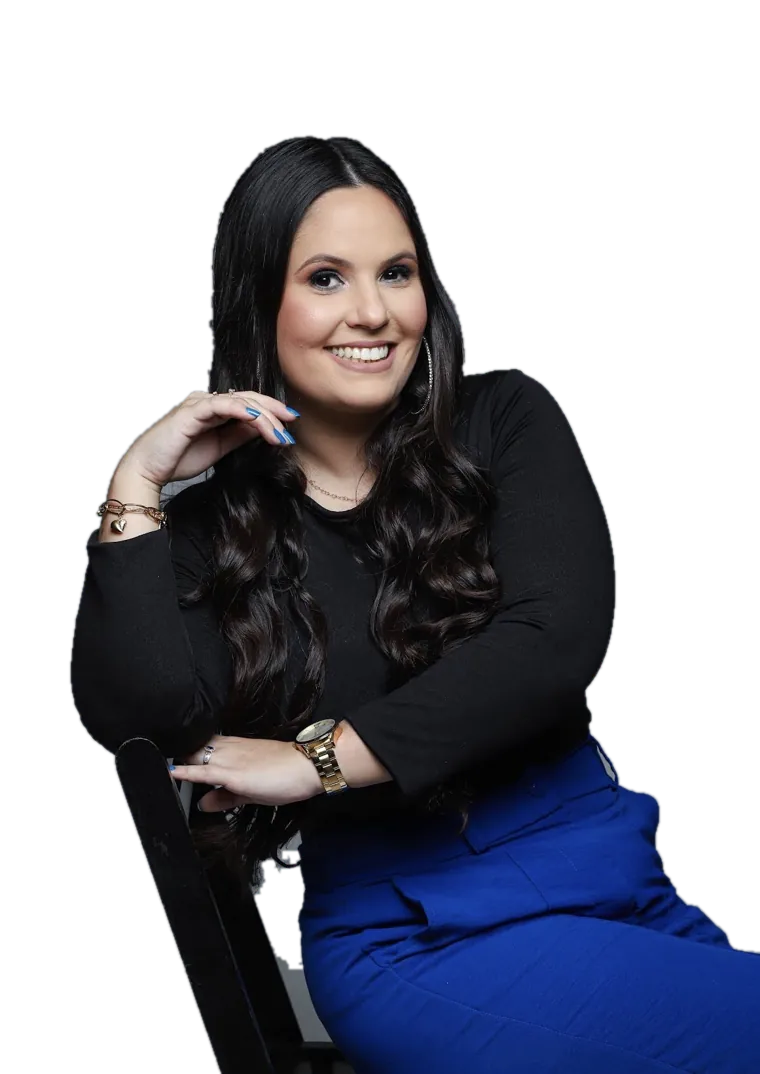
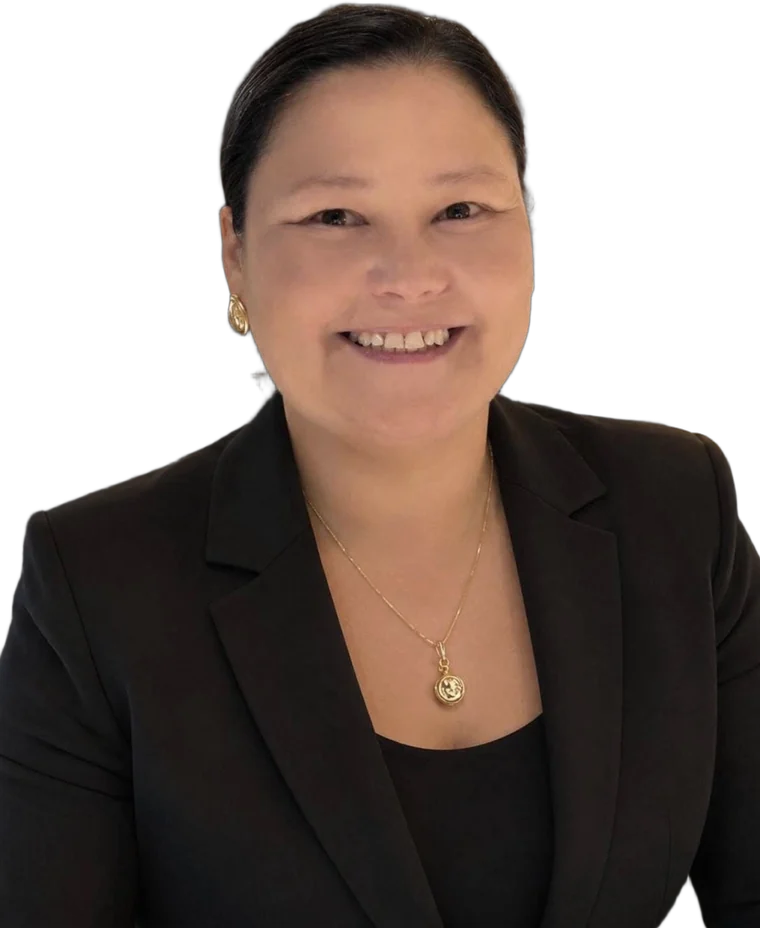
Troca as fotos do topo e do "sobre" pelas da Carla
Foto do topo com fundo removido e bordas esfumadas; corrige "na Vale do Sol" para "no Vale do Sol".

Claude-Session: https://claude.ai/code/session_013aJzSuekUFWv72ysnskdBA

diff --git a/index.html b/index.html
@@ -233,7 +233,7 @@
   .nome{position:absolute;z-index:1;font-weight:900;line-height:.82;letter-spacing:-.045em;font-size:clamp(6rem,15vw,13.5rem);white-space:nowrap;pointer-events:none;user-select:none}
   .nome-1{position:relative;margin:0 0 14px -.04em;align-self:flex-start;color:var(--azul-escuro);animation:entraEsq 1.1s cubic-bezier(.2,.8,.2,1) both}
   .nome-2{right:-.03em;bottom:5%;z-index:3;background:linear-gradient(100deg,var(--dourado-texto) 10%,var(--dourado) 60%,#E3C27A);-webkit-background-clip:text;background-clip:text;color:transparent;animation:entraDir 1.1s cubic-bezier(.2,.8,.2,1) .15s both}
-  .hero-foto{position:absolute;z-index:2;bottom:0;left:50%;height:94%;width:auto;max-width:none;transform:translateX(-40%);filter:drop-shadow(0 30px 40px rgba(14,42,71,.18));-webkit-mask-image:linear-gradient(to left,transparent 0,black 16%);mask-image:linear-gradient(to left,transparent 0,black 16%);animation:sobe 1.3s cubic-bezier(.2,.8,.2,1) .25s both}
+  .hero-foto{position:absolute;z-index:2;bottom:0;left:50%;height:90%;width:auto;max-width:none;transform:translateX(-18%);filter:drop-shadow(0 30px 40px rgba(14,42,71,.18));-webkit-mask-image:linear-gradient(to right,transparent 0,black 14%,black 84%,transparent 100%);mask-image:linear-gradient(to right,transparent 0,black 14%,black 84%,transparent 100%);animation:sobe 1.3s cubic-bezier(.2,.8,.2,1) .25s both}
   .hero-texto{position:relative;z-index:4;max-width:510px}
   .hero-texto h1{max-width:420px}
   .hero-texto .lead{max-width:420px}
@@ -259,7 +259,7 @@
   .hero-info svg{width:17px;height:17px;color:var(--dourado-texto);flex-shrink:0}
   @keyframes entraEsq{from{opacity:0;transform:translateX(-60px)}to{opacity:1;transform:none}}
   @keyframes entraDir{from{opacity:0;transform:translateX(60px)}to{opacity:1;transform:none}}
-  @keyframes sobe{from{opacity:0;transform:translateX(-40%) translateY(60px)}to{opacity:1;transform:translateX(-40%)}}
+  @keyframes sobe{from{opacity:0;transform:translateX(-18%) translateY(60px)}to{opacity:1;transform:translateX(-18%)}}
 
   .rod-info li{display:flex;gap:10px}
   .rod-info svg{width:18px;height:18px;flex-shrink:0;color:var(--dourado);margin-top:3px}
@@ -450,7 +450,7 @@
     .nome{position:relative;font-size:clamp(4.6rem,20vw,9rem)}
     .nome-1{margin:0 0 0 -.04em}
     .nome-2{right:auto;bottom:auto;align-self:flex-end;margin-top:-.5em;z-index:3;order:2}
-    .hero-foto{position:relative;left:auto;transform:none;height:auto;width:min(86%,430px);align-self:center;margin-top:-2.7em;order:1;animation-name:sobeM;-webkit-mask-image:linear-gradient(to left,transparent 0,black 16%),linear-gradient(to top,transparent 0,black 18%);-webkit-mask-composite:source-in;mask-image:linear-gradient(to left,transparent 0,black 16%),linear-gradient(to top,transparent 0,black 18%);mask-composite:intersect}
+    .hero-foto{position:relative;left:auto;transform:none;height:auto;width:min(86%,430px);align-self:center;margin-top:-.9em;order:1;animation-name:sobeM;-webkit-mask-image:linear-gradient(to right,transparent 0,black 14%,black 84%,transparent 100%),linear-gradient(to top,transparent 0,black 18%);-webkit-mask-composite:source-in;mask-image:linear-gradient(to right,transparent 0,black 14%,black 84%,transparent 100%),linear-gradient(to top,transparent 0,black 18%);mask-composite:intersect}
     .nome-1{order:0}
       .hero-texto{position:relative;left:auto;bottom:auto;max-width:520px;order:3;padding:36px 0 64px}
     .hero h1{font-size:clamp(1.7rem,6vw,2.2rem)}
@@ -555,7 +555,7 @@
   <div class="container hero-palco">
     <span class="nome nome-1" aria-hidden="true">Carla</span>
     <span class="nome nome-2" aria-hidden="true">Peres</span>
-    <img class="hero-foto" src="assets/hero.webp" alt="Psicóloga Carla Peres sorrindo, sentada em uma cadeira" width="760" height="1074" fetchpriority="high">
+    <img class="hero-foto" src="assets/hero.webp" alt="Psicóloga Carla Peres sorrindo, de blazer preto" width="760" height="928" fetchpriority="high">
     <div class="hero-texto">
       <h1>Coloque a cabeça no lugar e volte a decidir sua vida <em>com clareza</em>.</h1>
       <p class="lead">Sou a Carla, psicóloga aqui em Cachoeirinha. Se você anda cansado, com a cabeça cheia e sem saber direito para onde está indo, a gente conversa sobre isso no seu tempo e sem julgamento.</p>
@@ -716,12 +716,12 @@
   <div class="container">
     <div class="retrato-wrap rv">
       <div class="retrato">
-        <img class="img-rv" src="assets/sobre.webp" alt="Psicóloga Carla Peres apoiada sobre uma pilha de livros de psicologia" width="760" height="1079">
+        <img class="img-rv" src="assets/sobre.webp" alt="Psicóloga Carla Peres sorrindo, com a mão apoiada no queixo" width="760" height="956">
       </div>
     </div>
     <div class="rv">
       <h2>Prazer, sou a Carla. Ajudo pessoas de Cachoeirinha a se entenderem melhor.</h2>
-      <p class="lead">Atendo no meu consultório na Vale do Sol e também online. A maioria das pessoas que me procura está cansada de viver no automático: cumpre tudo, mas não se reconhece nas próprias escolhas.</p>
+      <p class="lead">Atendo no meu consultório no Vale do Sol e também online. A maioria das pessoas que me procura está cansada de viver no automático: cumpre tudo, mas não se reconhece nas próprias escolhas.</p>
       <p class="lead">Na terapia eu não digo o que você deve fazer. Eu te ajudo a enxergar com mais clareza o que você já sente, para que você decida o próximo passo com mais segurança.</p>
     </div>
   </div>
@@ -731,7 +731,7 @@
 <section class="secao local" id="local">
   <div class="container">
     <div class="rv">
-      <h2>Faça sua sessão num lugar calmo e reservado, aqui na Vale do Sol.</h2>
+      <h2>Faça sua sessão num lugar calmo e reservado, aqui no Vale do Sol.</h2>
       <p class="lead">Fica na Sala 501, um espaço tranquilo para você falar à vontade. Se preferir não sair de casa, a sessão pode ser online.</p>
       <a class="endereco" href="https://maps.app.goo.gl/X5FMSZnLrh81XzoA8" target="_blank" rel="noopener" aria-label="Abrir endereço no Google Maps: Av. Flores da Cunha, 1320 / R. Lindolfo Wagner, 336, Sala 501, Vale do Sol, Cachoeirinha, RS">
         <svg viewBox="0 0 24 24" fill="none" stroke="currentColor" stroke-width="2" aria-hidden="true"><path d="M12 21s-7-6.2-7-11.5A7 7 0 0 1 19 9.5C19 14.8 12 21 12 21z"/><circle cx="12" cy="9.5" r="2.5"/></svg>
@@ -808,7 +808,7 @@
     <div class="rod">
       <div>
         <a href="#inicio" class="marca"><strong>Carla Peres</strong><span>Psicóloga</span></a>
-        <p>Psicóloga em Cachoeirinha. Atendimento presencial na Vale do Sol e online.</p>
+        <p>Psicóloga em Cachoeirinha. Atendimento presencial no Vale do Sol e online.</p>
       </div>
       <div>
         <h4>Navegação</h4>
